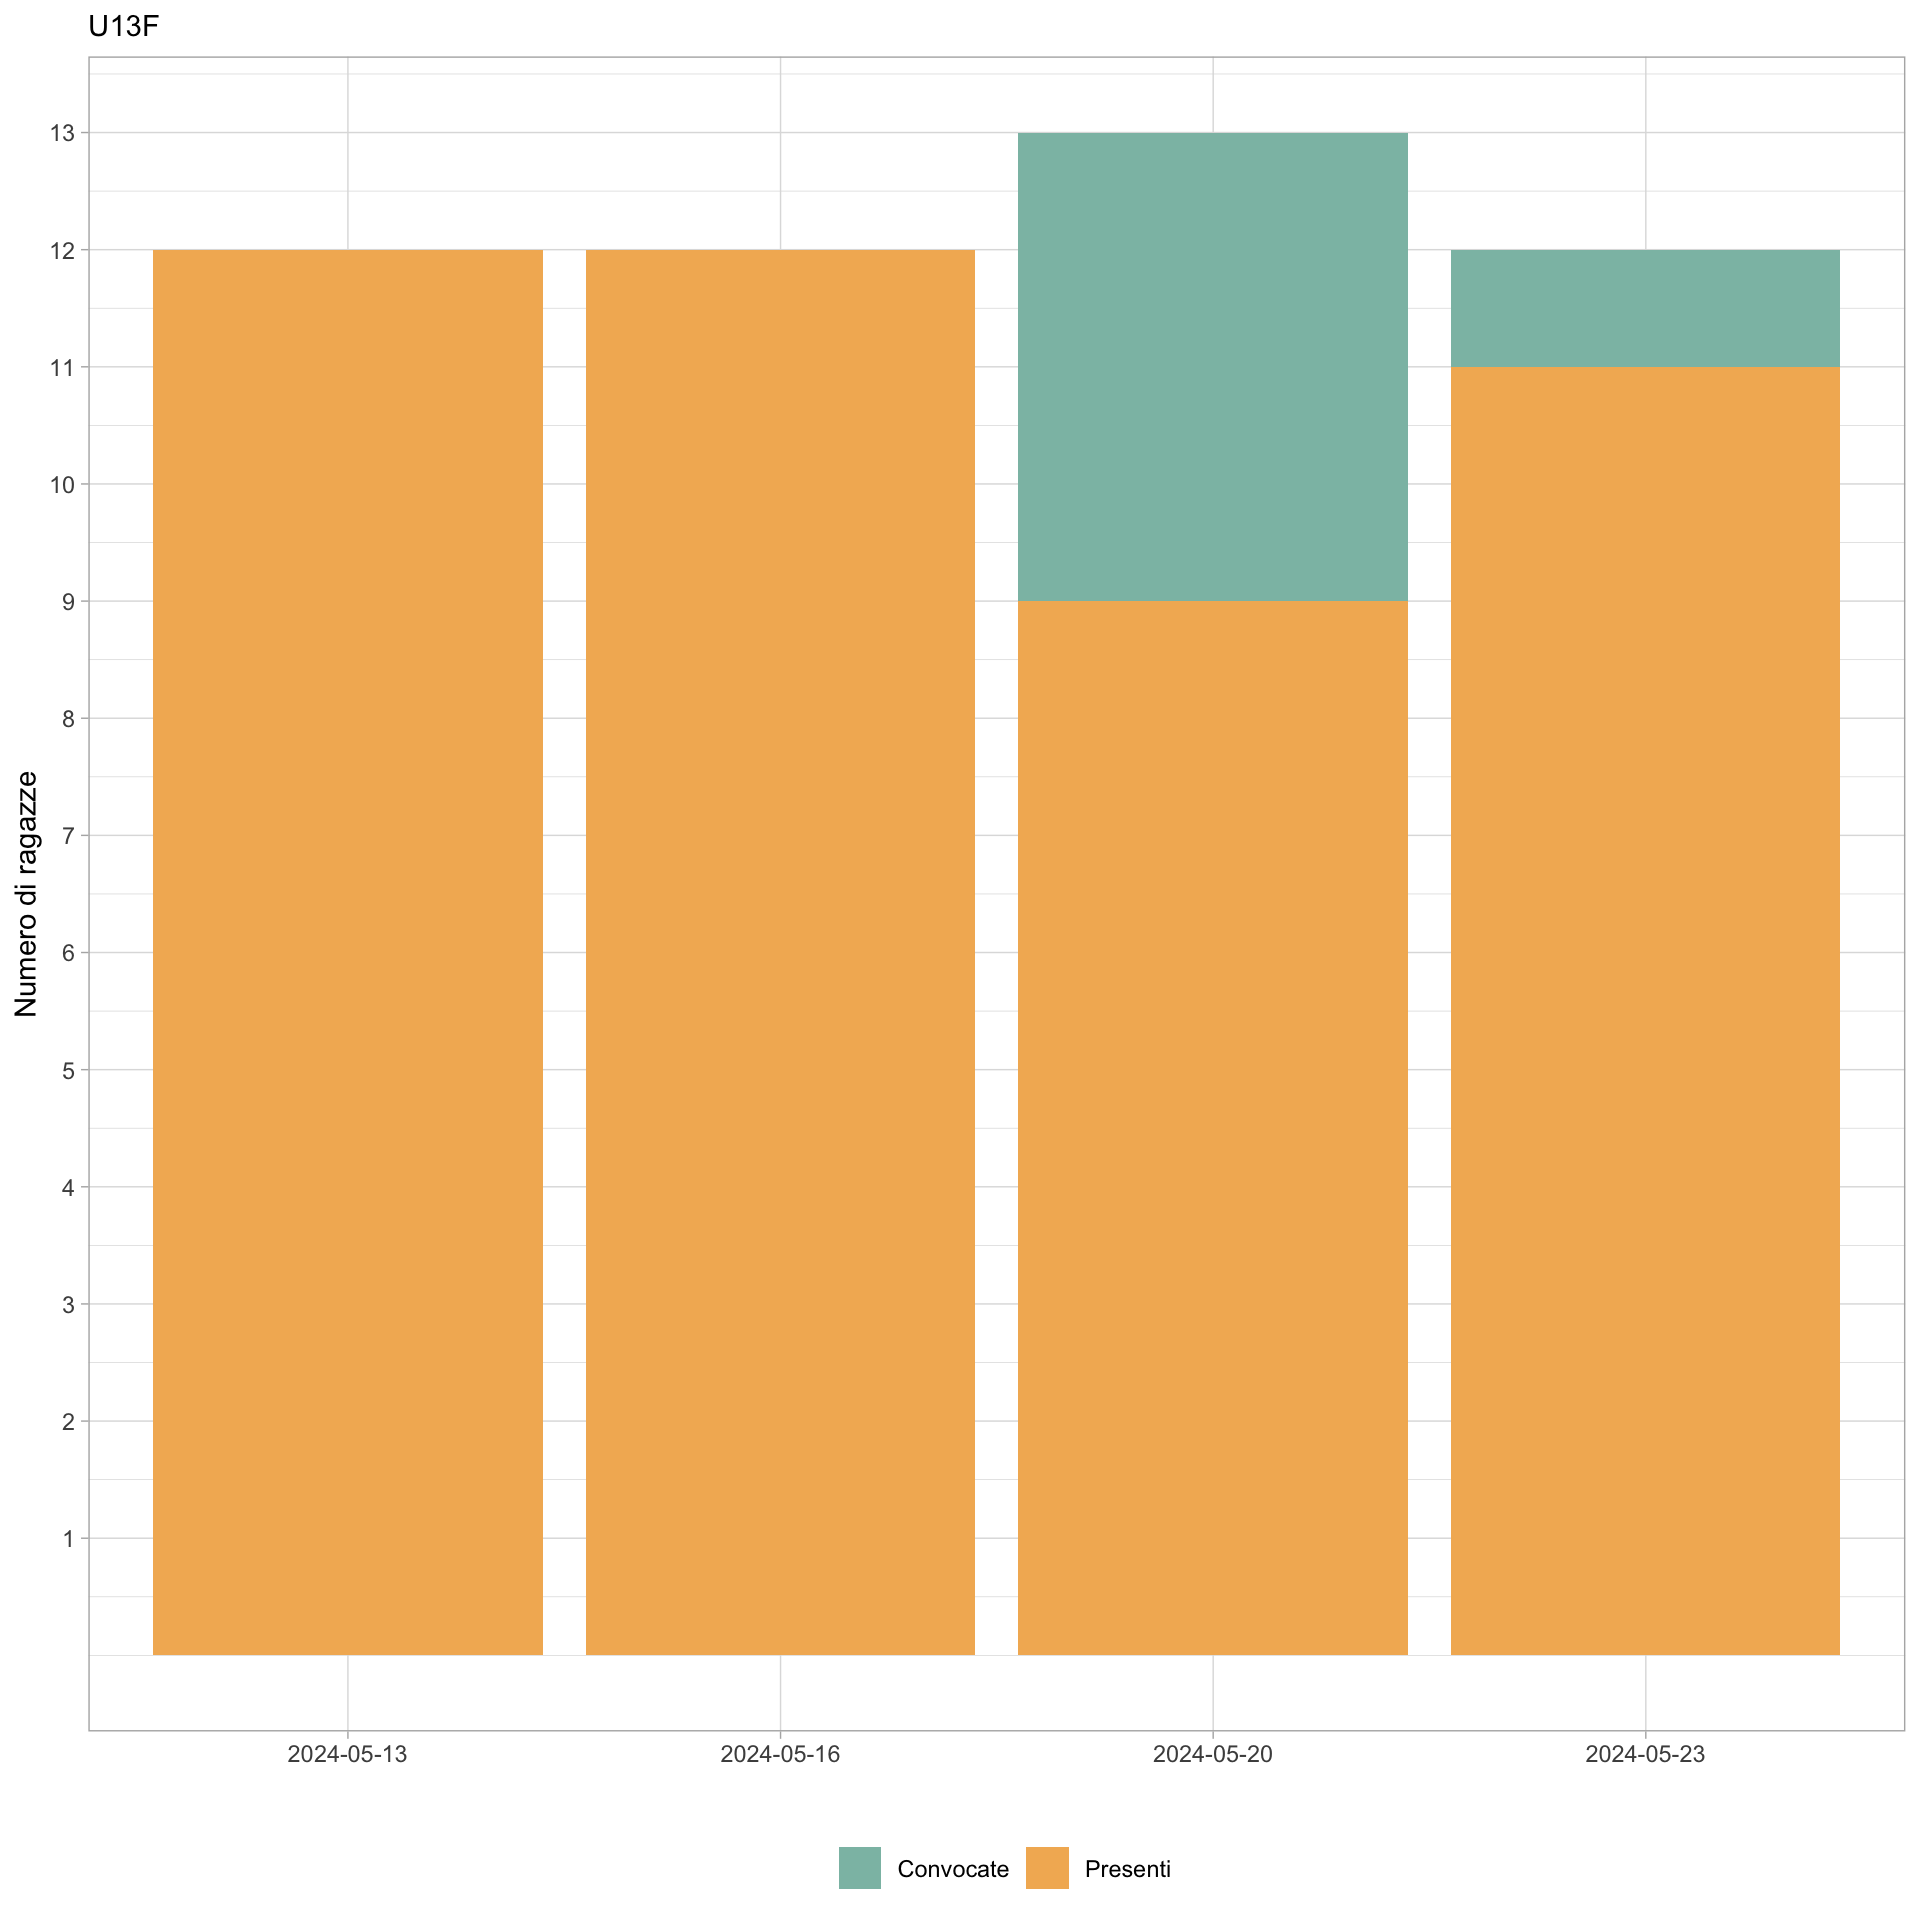
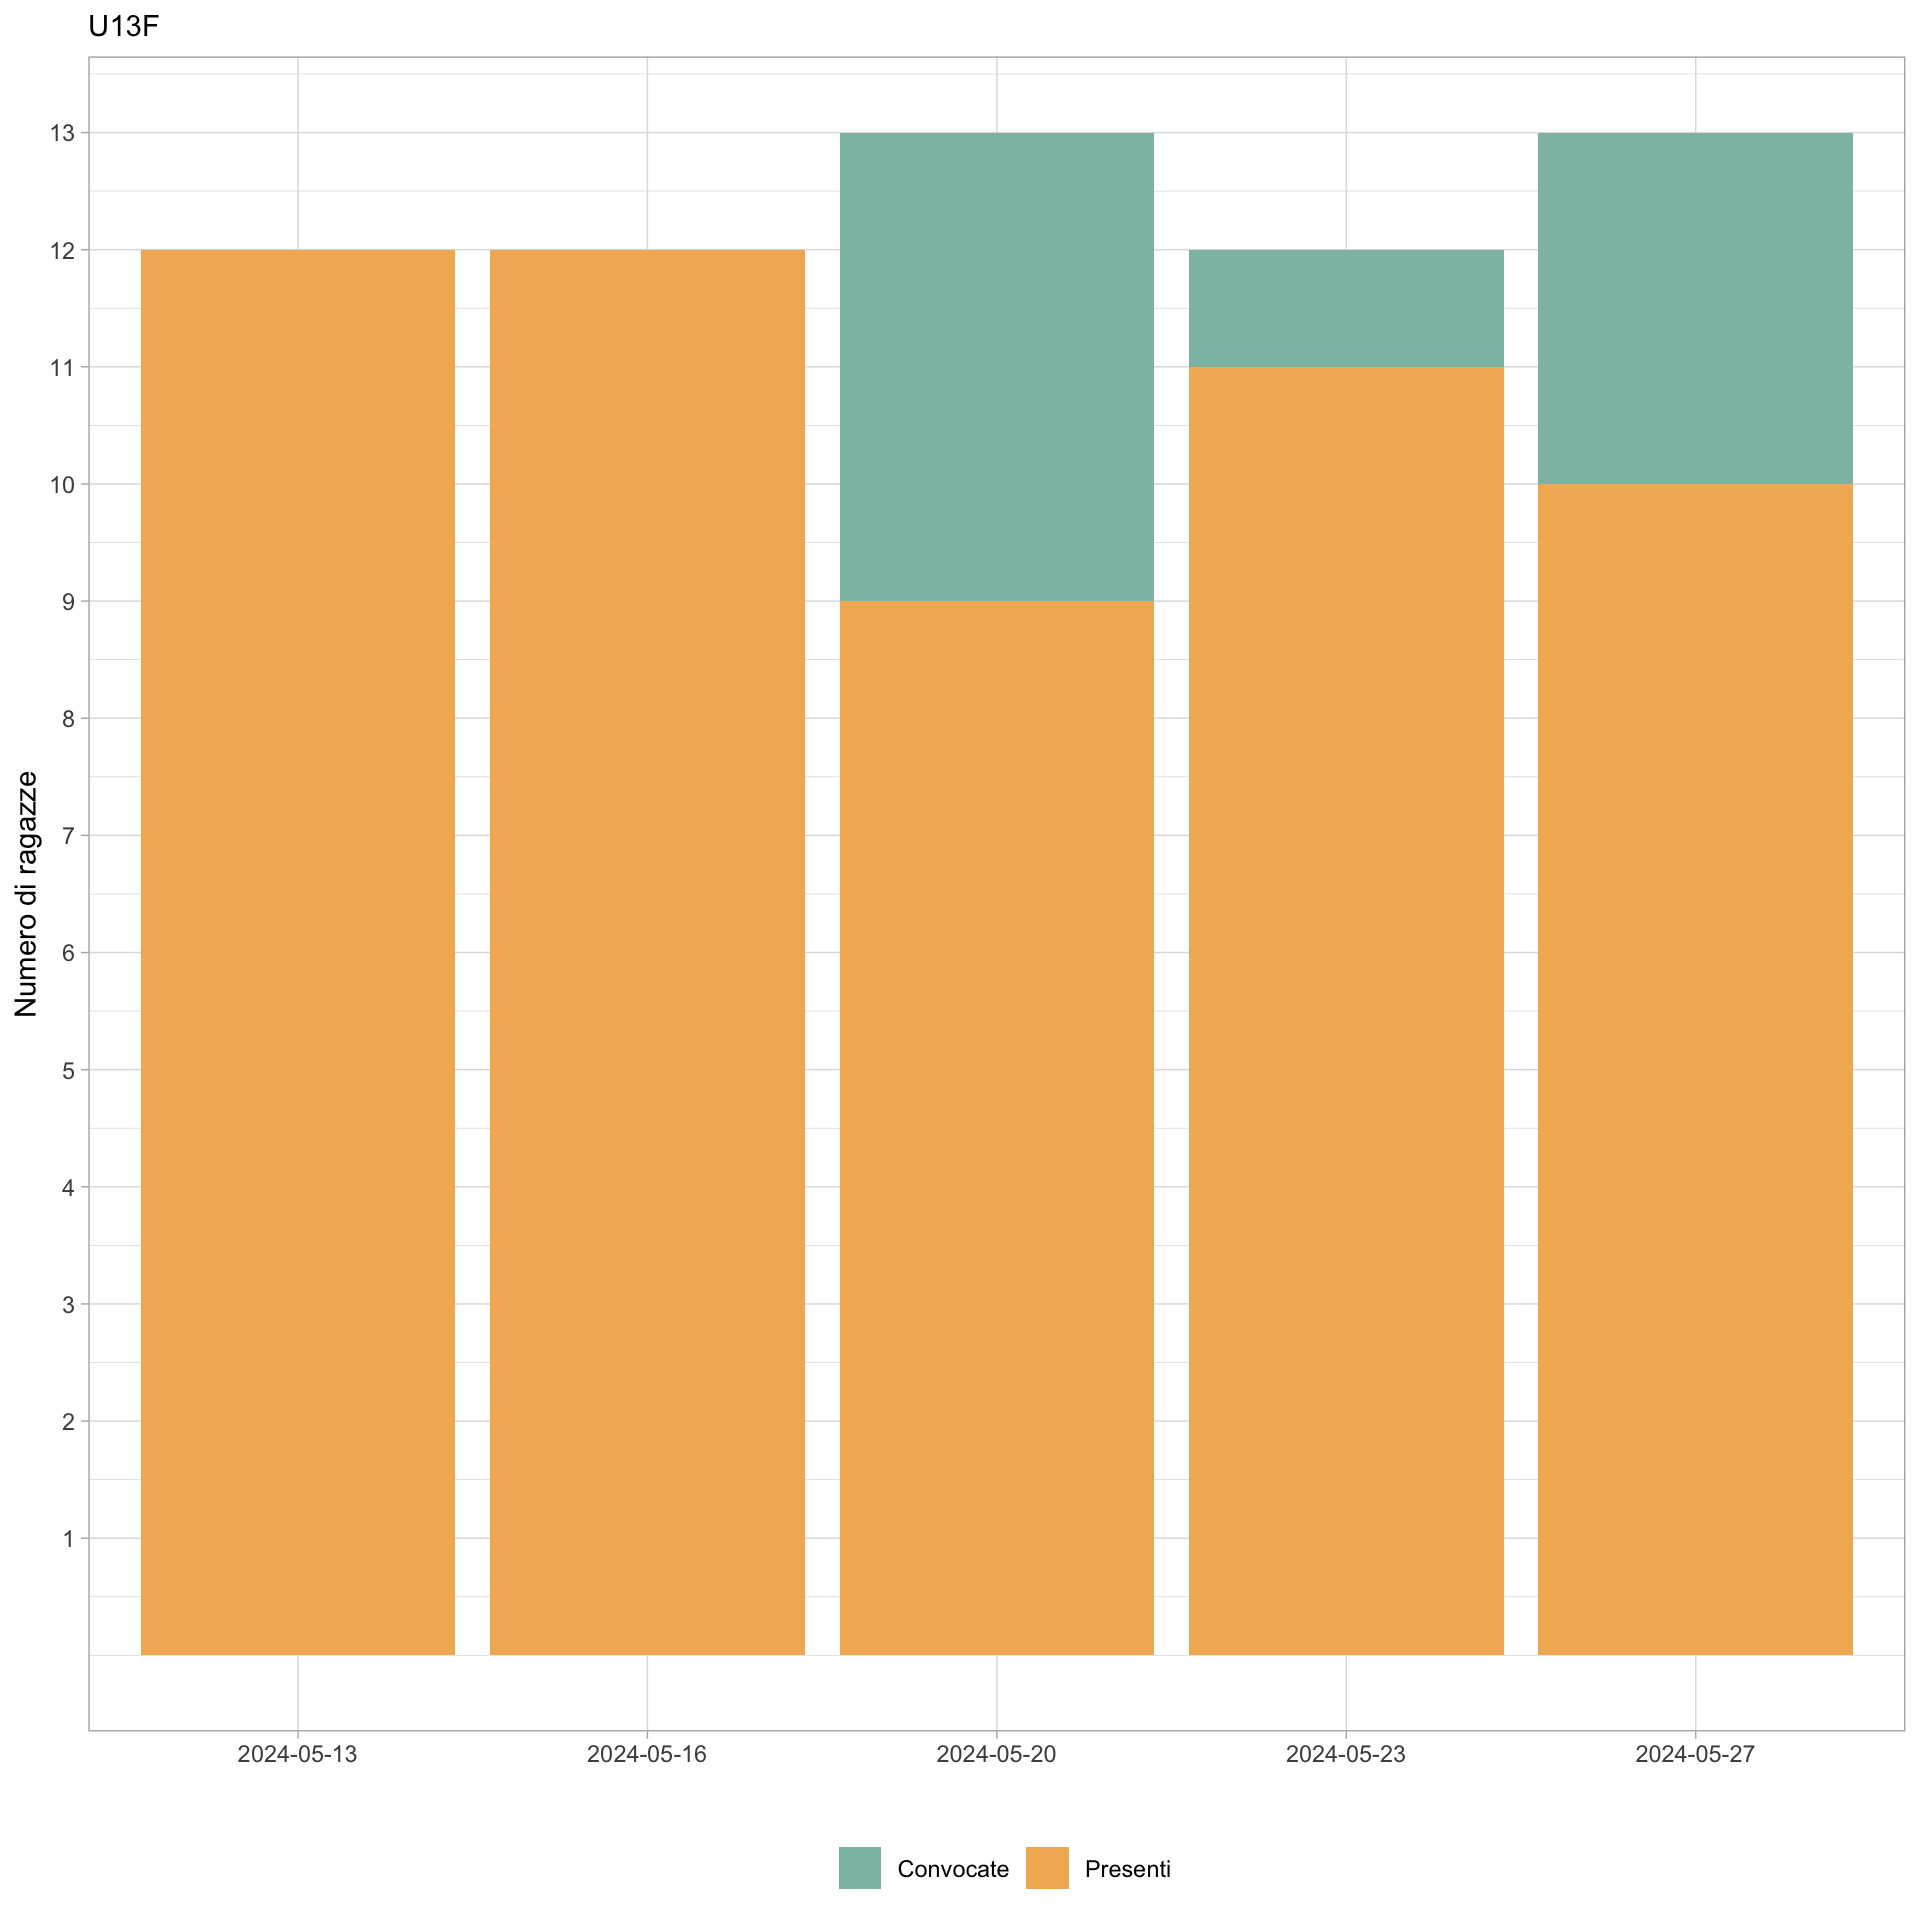
update index

diff --git a/docs/index.html b/docs/index.html
@@ -208,7 +208,7 @@ grid-auto-rows: minmax(0, 1fr);">
 <p><strong><span style="font-size: 40px;">Allenamenti fatti</span></strong></p>
 </p>
 <p class="value-box-value">
-8
+9
 </p>
 <p><i class="bi bi-calendar3"></i> dal mese di Maggio 2024.</p>
 </div>
@@ -250,24 +250,24 @@ grid-auto-rows: minmax(0, 1fr);">
 <div class="card-body html-fill-item html-fill-container">
 <div class="cell-output-display html-fill-item html-fill-container">
 <div class="html-fill-item html-fill-container">
-<div id="yokyifcodl" style="padding-left:0px;padding-right:0px;padding-top:10px;padding-bottom:10px;overflow-x:auto;overflow-y:auto;width:auto;height:auto;" class="html-fill-item html-fill-container">
+<div id="vjghgabfrz" style="padding-left:0px;padding-right:0px;padding-top:10px;padding-bottom:10px;overflow-x:auto;overflow-y:auto;width:auto;height:auto;" class="html-fill-item html-fill-container">
 <style>@import url("https://fonts.googleapis.com/css2?family=Noto+Sans:ital,wght@0,100;0,200;0,300;0,400;0,500;0,600;0,700;0,800;0,900;1,100;1,200;1,300;1,400;1,500;1,600;1,700;1,800;1,900&display=swap");
-#yokyifcodl table {
+#vjghgabfrz table {
   font-family: 'Noto Sans', system-ui, 'Segoe UI', Roboto, Helvetica, Arial, sans-serif, 'Apple Color Emoji', 'Segoe UI Emoji', 'Segoe UI Symbol', 'Noto Color Emoji';
   -webkit-font-smoothing: antialiased;
   -moz-osx-font-smoothing: grayscale;
 }
 
-#yokyifcodl thead, #yokyifcodl tbody, #yokyifcodl tfoot, #yokyifcodl tr, #yokyifcodl td, #yokyifcodl th {
+#vjghgabfrz thead, #vjghgabfrz tbody, #vjghgabfrz tfoot, #vjghgabfrz tr, #vjghgabfrz td, #vjghgabfrz th {
   border-style: none;
 }
 
-#yokyifcodl p {
+#vjghgabfrz p {
   margin: 0;
   padding: 0;
 }
 
-#yokyifcodl .gt_table {
+#vjghgabfrz .gt_table {
   display: table;
   border-collapse: collapse;
   line-height: normal;
@@ -293,12 +293,12 @@ grid-auto-rows: minmax(0, 1fr);">
   border-left-color: #D3D3D3;
 }
 
-#yokyifcodl .gt_caption {
+#vjghgabfrz .gt_caption {
   padding-top: 4px;
   padding-bottom: 4px;
 }
 
-#yokyifcodl .gt_title {
+#vjghgabfrz .gt_title {
   color: #333333;
   font-size: 125%;
   font-weight: initial;
@@ -310,7 +310,7 @@ grid-auto-rows: minmax(0, 1fr);">
   border-bottom-width: 0;
 }
 
-#yokyifcodl .gt_subtitle {
+#vjghgabfrz .gt_subtitle {
   color: #333333;
   font-size: 85%;
   font-weight: initial;
@@ -322,7 +322,7 @@ grid-auto-rows: minmax(0, 1fr);">
   border-top-width: 0;
 }
 
-#yokyifcodl .gt_heading {
+#vjghgabfrz .gt_heading {
   background-color: #F6F6F6;
   text-align: left;
   border-bottom-color: #F6F6F6;
@@ -334,13 +334,13 @@ grid-auto-rows: minmax(0, 1fr);">
   border-right-color: #D3D3D3;
 }
 
-#yokyifcodl .gt_bottom_border {
+#vjghgabfrz .gt_bottom_border {
   border-bottom-style: solid;
   border-bottom-width: 0px;
   border-bottom-color: #D3D3D3;
 }
 
-#yokyifcodl .gt_col_headings {
+#vjghgabfrz .gt_col_headings {
   border-top-style: solid;
   border-top-width: 1px;
   border-top-color: #40C5FF;
@@ -355,7 +355,7 @@ grid-auto-rows: minmax(0, 1fr);">
   border-right-color: #D3D3D3;
 }
 
-#yokyifcodl .gt_col_heading {
+#vjghgabfrz .gt_col_heading {
   color: #333333;
   background-color: #F6F6F6;
   font-size: 100%;
@@ -375,7 +375,7 @@ grid-auto-rows: minmax(0, 1fr);">
   overflow-x: hidden;
 }
 
-#yokyifcodl .gt_column_spanner_outer {
+#vjghgabfrz .gt_column_spanner_outer {
   color: #333333;
   background-color: #F6F6F6;
   font-size: 100%;
@@ -387,15 +387,15 @@ grid-auto-rows: minmax(0, 1fr);">
   padding-right: 4px;
 }
 
-#yokyifcodl .gt_column_spanner_outer:first-child {
+#vjghgabfrz .gt_column_spanner_outer:first-child {
   padding-left: 0;
 }
 
-#yokyifcodl .gt_column_spanner_outer:last-child {
+#vjghgabfrz .gt_column_spanner_outer:last-child {
   padding-right: 0;
 }
 
-#yokyifcodl .gt_column_spanner {
+#vjghgabfrz .gt_column_spanner {
   border-bottom-style: solid;
   border-bottom-width: 2px;
   border-bottom-color: #ECECEC;
@@ -407,11 +407,11 @@ grid-auto-rows: minmax(0, 1fr);">
   width: 100%;
 }
 
-#yokyifcodl .gt_spanner_row {
+#vjghgabfrz .gt_spanner_row {
   border-bottom-style: hidden;
 }
 
-#yokyifcodl .gt_group_heading {
+#vjghgabfrz .gt_group_heading {
   padding-top: 8px;
   padding-bottom: 8px;
   padding-left: 5px;
@@ -437,7 +437,7 @@ grid-auto-rows: minmax(0, 1fr);">
   text-align: left;
 }
 
-#yokyifcodl .gt_empty_group_heading {
+#vjghgabfrz .gt_empty_group_heading {
   padding: 0.5px;
   color: #333333;
   background-color: #F6F6F6;
@@ -452,15 +452,15 @@ grid-auto-rows: minmax(0, 1fr);">
   vertical-align: middle;
 }
 
-#yokyifcodl .gt_from_md > :first-child {
+#vjghgabfrz .gt_from_md > :first-child {
   margin-top: 0;
 }
 
-#yokyifcodl .gt_from_md > :last-child {
+#vjghgabfrz .gt_from_md > :last-child {
   margin-bottom: 0;
 }
 
-#yokyifcodl .gt_row {
+#vjghgabfrz .gt_row {
   padding-top: 4px;
   padding-bottom: 4px;
   padding-left: 5px;
@@ -479,7 +479,7 @@ grid-auto-rows: minmax(0, 1fr);">
   overflow-x: hidden;
 }
 
-#yokyifcodl .gt_stub {
+#vjghgabfrz .gt_stub {
   color: #333333;
   background-color: #F6F6F6;
   font-size: 100%;
@@ -492,7 +492,7 @@ grid-auto-rows: minmax(0, 1fr);">
   padding-right: 5px;
 }
 
-#yokyifcodl .gt_stub_row_group {
+#vjghgabfrz .gt_stub_row_group {
   color: #333333;
   background-color: #F6F6F6;
   font-size: 100%;
@@ -506,15 +506,15 @@ grid-auto-rows: minmax(0, 1fr);">
   vertical-align: top;
 }
 
-#yokyifcodl .gt_row_group_first td {
+#vjghgabfrz .gt_row_group_first td {
   border-top-width: 1px;
 }
 
-#yokyifcodl .gt_row_group_first th {
+#vjghgabfrz .gt_row_group_first th {
   border-top-width: 1px;
 }
 
-#yokyifcodl .gt_summary_row {
+#vjghgabfrz .gt_summary_row {
   color: #333333;
   background-color: #F6F6F6;
   text-transform: inherit;
@@ -524,16 +524,16 @@ grid-auto-rows: minmax(0, 1fr);">
   padding-right: 5px;
 }
 
-#yokyifcodl .gt_first_summary_row {
+#vjghgabfrz .gt_first_summary_row {
   border-top-style: solid;
   border-top-color: #D3D3D3;
 }
 
-#yokyifcodl .gt_first_summary_row.thick {
+#vjghgabfrz .gt_first_summary_row.thick {
   border-top-width: 2px;
 }
 
-#yokyifcodl .gt_last_summary_row {
+#vjghgabfrz .gt_last_summary_row {
   padding-top: 8px;
   padding-bottom: 8px;
   padding-left: 5px;
@@ -543,7 +543,7 @@ grid-auto-rows: minmax(0, 1fr);">
   border-bottom-color: #D3D3D3;
 }
 
-#yokyifcodl .gt_grand_summary_row {
+#vjghgabfrz .gt_grand_summary_row {
   color: #333333;
   background-color: #F6F6F6;
   text-transform: inherit;
@@ -553,7 +553,7 @@ grid-auto-rows: minmax(0, 1fr);">
   padding-right: 5px;
 }
 
-#yokyifcodl .gt_first_grand_summary_row {
+#vjghgabfrz .gt_first_grand_summary_row {
   padding-top: 8px;
   padding-bottom: 8px;
   padding-left: 5px;
@@ -563,7 +563,7 @@ grid-auto-rows: minmax(0, 1fr);">
   border-top-color: #D3D3D3;
 }
 
-#yokyifcodl .gt_last_grand_summary_row_top {
+#vjghgabfrz .gt_last_grand_summary_row_top {
   padding-top: 8px;
   padding-bottom: 8px;
   padding-left: 5px;
@@ -573,11 +573,11 @@ grid-auto-rows: minmax(0, 1fr);">
   border-bottom-color: #D3D3D3;
 }
 
-#yokyifcodl .gt_striped {
+#vjghgabfrz .gt_striped {
   background-color: #ECECEC;
 }
 
-#yokyifcodl .gt_table_body {
+#vjghgabfrz .gt_table_body {
   border-top-style: solid;
   border-top-width: 2px;
   border-top-color: #D3D3D3;
@@ -586,7 +586,7 @@ grid-auto-rows: minmax(0, 1fr);">
   border-bottom-color: #FFFFFF;
 }
 
-#yokyifcodl .gt_footnotes {
+#vjghgabfrz .gt_footnotes {
   color: #333333;
   background-color: #F6F6F6;
   border-bottom-style: none;
@@ -600,7 +600,7 @@ grid-auto-rows: minmax(0, 1fr);">
   border-right-color: #D3D3D3;
 }
 
-#yokyifcodl .gt_footnote {
+#vjghgabfrz .gt_footnote {
   margin: 0px;
   font-size: 90%;
   padding-top: 4px;
@@ -609,7 +609,7 @@ grid-auto-rows: minmax(0, 1fr);">
   padding-right: 5px;
 }
 
-#yokyifcodl .gt_sourcenotes {
+#vjghgabfrz .gt_sourcenotes {
   color: #333333;
   background-color: #F6F6F6;
   border-bottom-style: none;
@@ -623,7 +623,7 @@ grid-auto-rows: minmax(0, 1fr);">
   border-right-color: #D3D3D3;
 }
 
-#yokyifcodl .gt_sourcenote {
+#vjghgabfrz .gt_sourcenote {
   font-size: 12px;
   padding-top: 4px;
   padding-bottom: 4px;
@@ -631,63 +631,63 @@ grid-auto-rows: minmax(0, 1fr);">
   padding-right: 5px;
 }
 
-#yokyifcodl .gt_left {
+#vjghgabfrz .gt_left {
   text-align: left;
 }
 
-#yokyifcodl .gt_center {
+#vjghgabfrz .gt_center {
   text-align: center;
 }
 
-#yokyifcodl .gt_right {
+#vjghgabfrz .gt_right {
   text-align: right;
   font-variant-numeric: tabular-nums;
 }
 
-#yokyifcodl .gt_font_normal {
+#vjghgabfrz .gt_font_normal {
   font-weight: normal;
 }
 
-#yokyifcodl .gt_font_bold {
+#vjghgabfrz .gt_font_bold {
   font-weight: bold;
 }
 
-#yokyifcodl .gt_font_italic {
+#vjghgabfrz .gt_font_italic {
   font-style: italic;
 }
 
-#yokyifcodl .gt_super {
+#vjghgabfrz .gt_super {
   font-size: 65%;
 }
 
-#yokyifcodl .gt_footnote_marks {
+#vjghgabfrz .gt_footnote_marks {
   font-size: 75%;
   vertical-align: 0.4em;
   position: initial;
 }
 
-#yokyifcodl .gt_asterisk {
+#vjghgabfrz .gt_asterisk {
   font-size: 100%;
   vertical-align: 0;
 }
 
-#yokyifcodl .gt_indent_1 {
+#vjghgabfrz .gt_indent_1 {
   text-indent: 5px;
 }
 
-#yokyifcodl .gt_indent_2 {
+#vjghgabfrz .gt_indent_2 {
   text-indent: 10px;
 }
 
-#yokyifcodl .gt_indent_3 {
+#vjghgabfrz .gt_indent_3 {
   text-indent: 15px;
 }
 
-#yokyifcodl .gt_indent_4 {
+#vjghgabfrz .gt_indent_4 {
   text-indent: 20px;
 }
 
-#yokyifcodl .gt_indent_5 {
+#vjghgabfrz .gt_indent_5 {
   text-indent: 25px;
 }
 </style>
@@ -766,7 +766,7 @@ grid-auto-rows: minmax(0, 1fr);">
 <p><strong><span style="font-size: 40px;">Allenamenti fatti</span></strong></p>
 </p>
 <p class="value-box-value">
-4
+5
 </p>
 <p><i class="bi bi-calendar3"></i> dal mese di Maggio 2024.</p>
 </div>
@@ -916,7 +916,7 @@ grid-auto-rows: minmax(0, 1fr);">
 <p><strong><span style="font-size: 40px;">Allenamenti fatti</span></strong></p>
 </p>
 <p class="value-box-value">
-8
+9
 </p>
 <p><i class="bi bi-calendar3"></i> dal mese di Maggio 2024.</p>
 </div>
